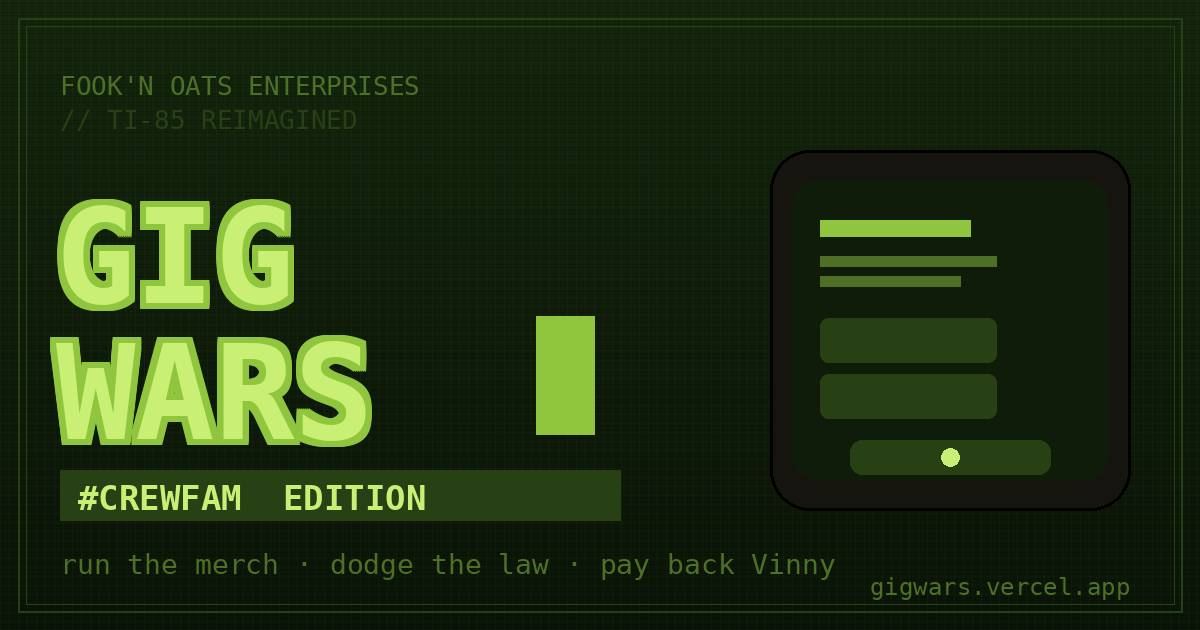
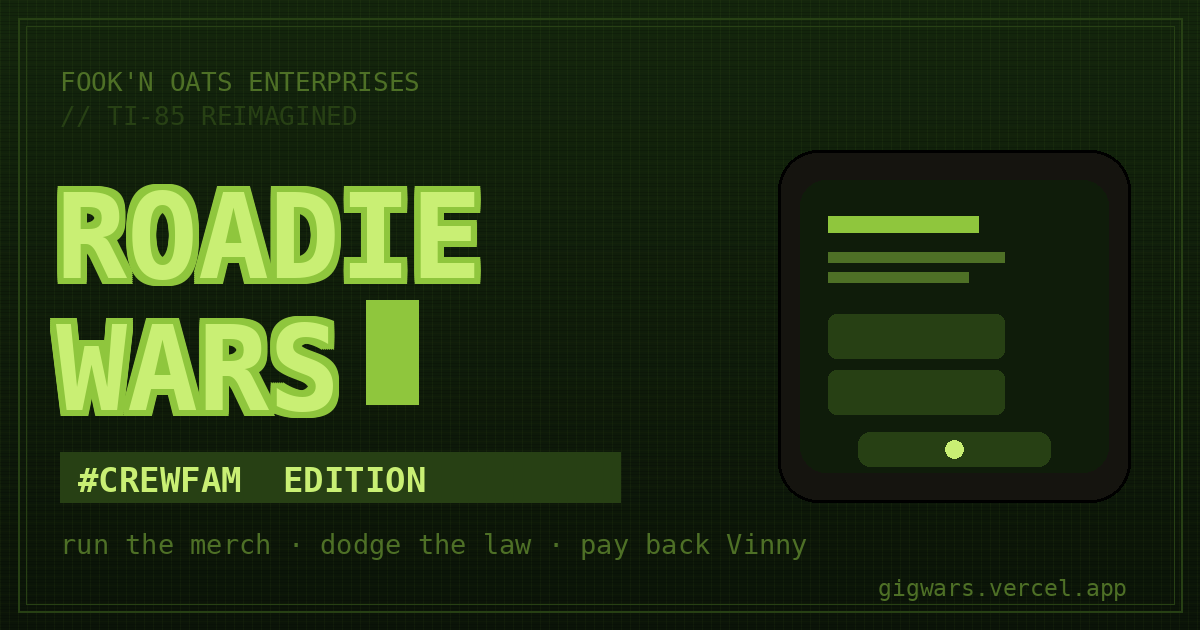
Rename to ROADIE WARS (title, manifest, social meta) + new OG image

diff --git a/index.html b/index.html
@@ -2,8 +2,8 @@
 <html>
 <head>
   <meta charset="utf-8">
-  <title>GIG WARS</title>
-  <meta name="description" content="GIG WARS #CREWFAM EDITION — run the merch, dodge the law, pay back Vinny. A phosphor-green TI-85-reimagined tour across the gig wars.">
+  <title>ROADIE WARS</title>
+  <meta name="description" content="ROADIE WARS #CREWFAM EDITION — run the merch, dodge the law, pay back Vinny. A phosphor-green TI-85-reimagined tour across the roadie wars.">
   <meta name="theme-color" content="#0a0a08">
   <link rel="icon" type="image/png" sizes="192x192" href="icon-192.png">
   <link rel="apple-touch-icon" href="apple-touch-icon.png">
@@ -12,8 +12,8 @@
   <!-- Open Graph -->
   <meta property="og:type" content="website">
   <meta property="og:site_name" content="Fook'n Oats Enterprises">
-  <meta property="og:title" content="GIG WARS — #CREWFAM EDITION">
-  <meta property="og:description" content="Run the merch, dodge the law, pay back Vinny. A phosphor-green TI-85-reimagined tour across the gig wars.">
+  <meta property="og:title" content="ROADIE WARS — #CREWFAM EDITION">
+  <meta property="og:description" content="Run the merch, dodge the law, pay back Vinny. A phosphor-green TI-85-reimagined tour across the roadie wars.">
   <meta property="og:url" content="https://gigwars.vercel.app/">
   <meta property="og:image" content="https://gigwars.vercel.app/og.png">
   <meta property="og:image:width" content="1200">
@@ -22,7 +22,7 @@
 
   <!-- Twitter -->
   <meta name="twitter:card" content="summary_large_image">
-  <meta name="twitter:title" content="GIG WARS — #CREWFAM EDITION">
+  <meta name="twitter:title" content="ROADIE WARS — #CREWFAM EDITION">
   <meta name="twitter:description" content="Run the merch, dodge the law, pay back Vinny. A phosphor-green TI-85-reimagined tour.">
   <meta name="twitter:image" content="https://gigwars.vercel.app/og.png">
   <style>